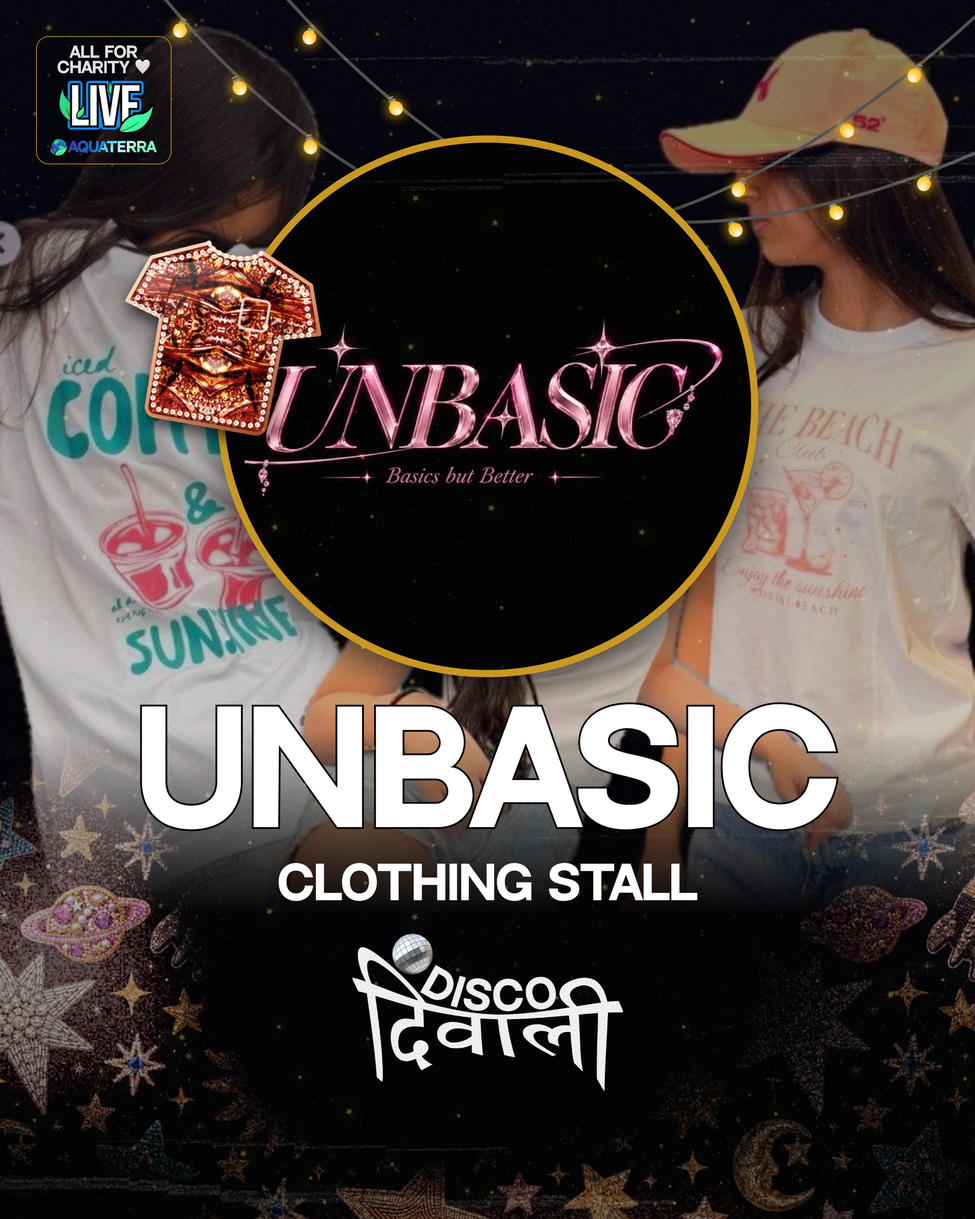
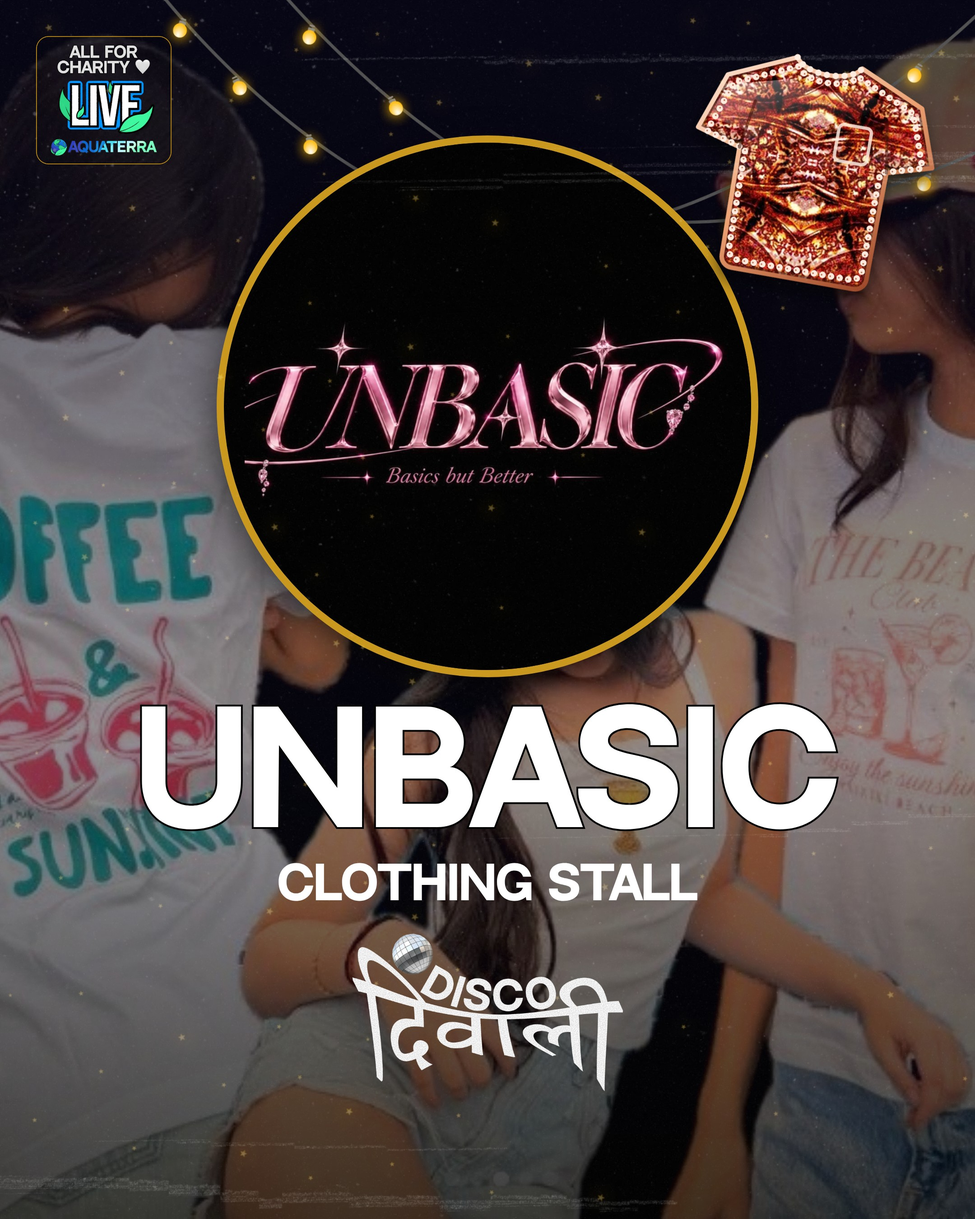
UNBASIC post + story: back to the standard stall look (full-bleed photo, standard dim and sticker position)
Claude-Session: https://claude.ai/code/session_01Hjb3YdETYzUX9KQBuy3LJ5

diff --git a/scratchpad/dd_unbasic.py b/scratchpad/dd_unbasic.py
@@ -1,4 +1,4 @@
-"""DISCO DIWALI "UNBASIC" clothing stall poster (copy of dd_meetcute.py: logo filling the circle, the vendor's own three-tee photo as the ground, copper tee sticker). The photo is a 662x623 cut-out on black: it is fitted to the width (contain) and top-aligned so the outer girls keep their faces clear of the circle, feed (1080x1350, also the WhatsApp size) and story (1080x1920), 2026-10-24.
+"""DISCO DIWALI "UNBASIC" clothing stall poster (copy of dd_meetcute.py: logo filling the circle, the vendor's own three-tee photo as the ground, copper tee sticker)., feed (1080x1350, also the WhatsApp size) and story (1080x1920), 2026-10-24.
 From the user's Paradox reference (circular photo, big red NANDU JEE, two-part tagline, JOIN NOW button, sponsor + logos): the MECHANISM is kept
 (real photo in a circle, display headline, snarky tagline) and rebuilt on the Disco Diwali skeleton: diya ground, string lights, LIVE badge, copper diya sticker on the
 circle's corner, the lockup (with ball) as the footer mark. Adaptations: the Realmark title-sponsor mark, the Paradox logo and the beach palms are NOT Disco Diwali's, so they
@@ -22,13 +22,7 @@ import dd_photo_bg as PB, dd_copper as CP   # noqa: E402  (photo ground and copp
 
 def poster(H):
     story = H > 1350
-    POS = "50% 0%" if H <= 1350 else "50% 12%"
-    g = PB.photo_ground(dd, W, H, BG, POS, dim=.30).replace("object-fit:cover", "object-fit:contain", 1)
-    # the photo is a cut-out on black: fade its bottom edge into the ground (a hard edge cut the jeans off) and put Disco Diwali's celestial plate under it
-    fade = ("linear-gradient(180deg,#000 0,#000 60%,transparent 75%)" if H <= 1350 else "linear-gradient(180deg,#000 0,#000 49%,transparent 58%)")
-    g = g.replace("z-index:1;filter", f"z-index:1;-webkit-mask-image:{fade};mask-image:{fade};filter", 1)
-    g = g.replace('<img data-tag="plate" src=', f'<img data-tag="plate" src="{dd.uri("bg_beaded_portrait.jpg")}" style="position:absolute;left:0;top:0;width:{W}px;height:{H}px;object-fit:cover;z-index:0">'
-                  '<img data-tag="plate" src=', 1)
+    g = PB.photo_ground(dd, W, H, BG, "50% 50%", dim=.52)   # the standard stall ground: full-bleed photo (cover), same dim as the other stalls
     parts, els = [g], []
     # LIVE badge, top left
     bx, by, bw = 40, (210 if story else 40), 150
@@ -42,8 +36,8 @@ def poster(H):
                  f'<img src="{LOGO}" style="position:absolute;left:4%;top:4%;width:92%;height:92%;object-fit:contain"></div>')
     els.append(("circle", cx, cy0, d, d))
     # copper DHOL sticker (user, 2026-10-24: "a different sticker, not the mask") tucked on the circle's top-right; sticker() is square, rotation baked in
-    ss = 250 if story else 230
-    mx, my = (150, 350) if story else (130, 250)
+    ss = 300 if story else 280
+    mx, my = 1040 - ss, (cy0 - 150 if story else 40)
     parts.append(f'<div data-tag="sticker" style="position:absolute;left:{mx}px;top:{my}px;z-index:12">{CP.tee(ss, 10)}</div>'); els.append(("sticker", mx, my, ss, ss))
     # headline + tagline
     hy = cy0 + d + (28 if story else 26)
